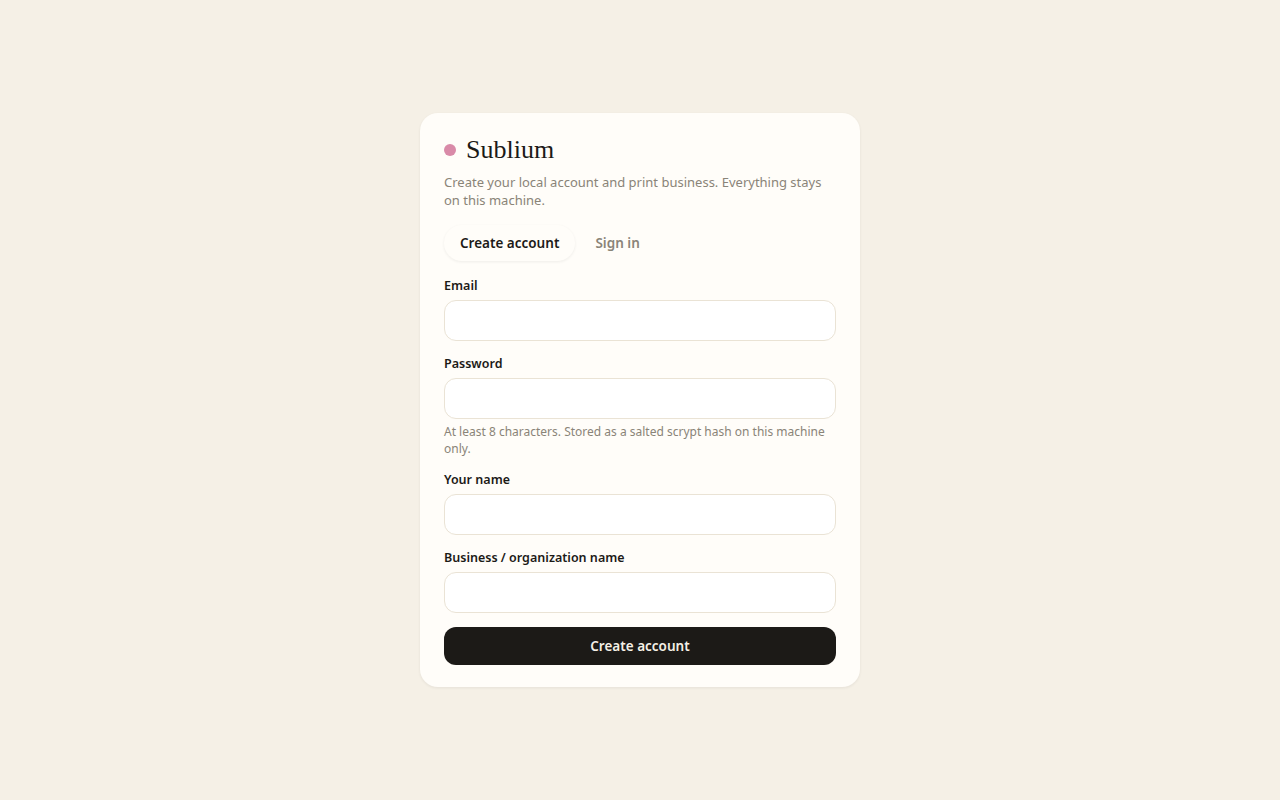
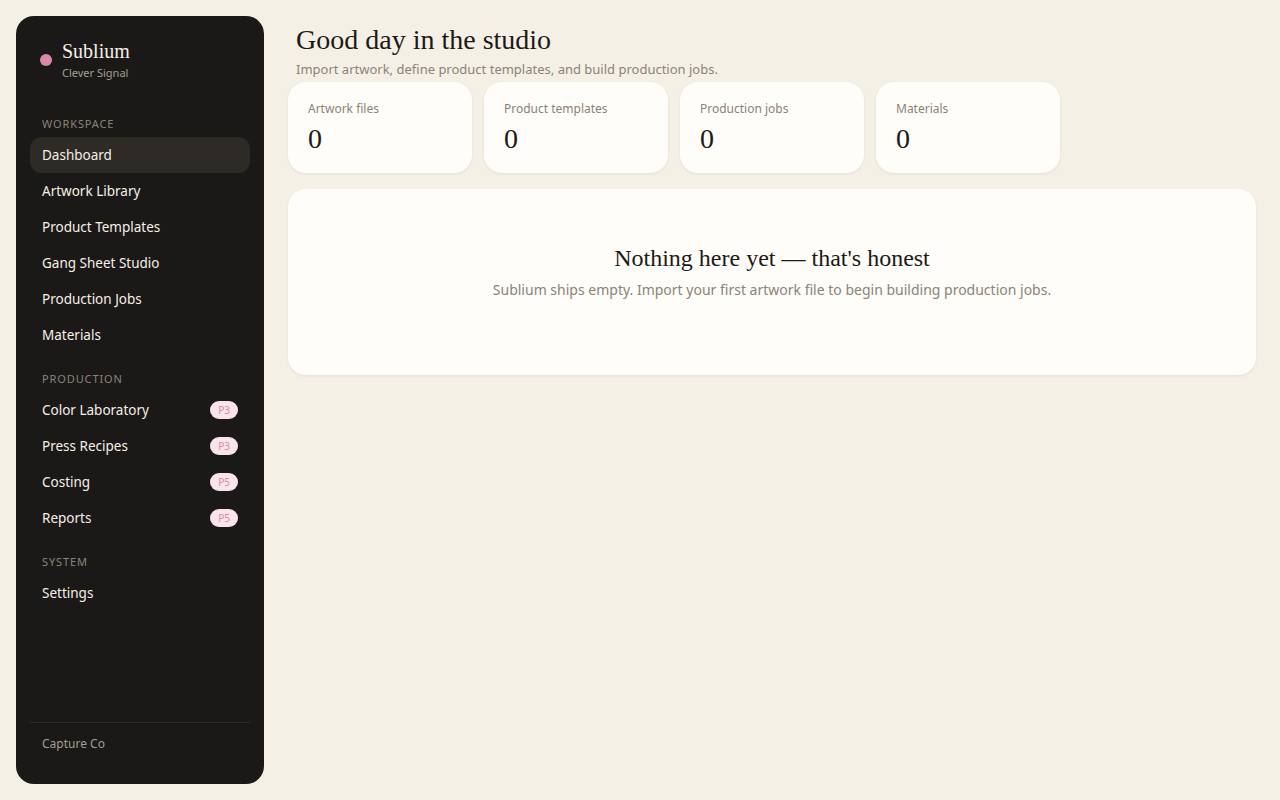
Real screenshots: sublium + threadcount recaptured past login, materialist captured (license bypass fixed)

diff --git a/src/data/products.ts b/src/data/products.ts
@@ -233,6 +233,8 @@ const FIRST_PRODUCTS: Product[] = [
     mascot: "/mascots/materialist.png",
     mascotAlt:
       "Dithered brand tile for Materialist: a realistic engraved owl portrait in black ink on solid amber",
+    screenshot: "/screenshots/materialist.png",
+    screenshotAlt: "Materialist application window (in development)",
   },
   {
     id: "thrivepoint",
